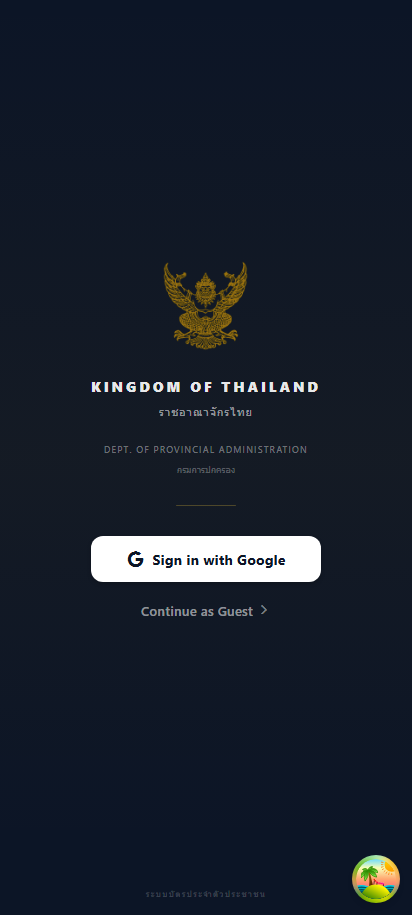
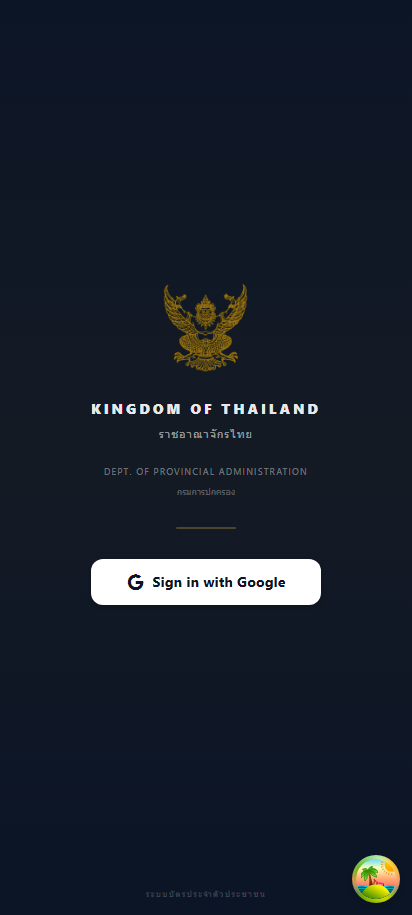
feat(auth): enforce strict Google Sign-In gate and condition loading splash to authenticated users only

Changed region(s): [[0.2039, 0.2754, 0.7864, 0.6732]]

diff --git a/app/_layout.tsx b/app/_layout.tsx
@@ -66,16 +66,14 @@ function AppShell() {
   const { colors, themeLoaded } = useTheme();
   const { ready: profileReady } = useProfile();
   const { countryLoaded, config } = useCountry();
-  const { isOnboarded, isAuthenticated, ready: authReady } = useAuth();
+  const { isAuthenticated, ready: authReady } = useAuth();
   const [fontsLoaded] = useFonts({ IBMPlexMono_500Medium });
   const [splashDone, setSplashDone] = useState(false);
   const [assetsReady, setAssetsReady] = useState(false);
   const timerRef = useRef<ReturnType<typeof setTimeout> | null>(null);
   const splashOpacity = useRef(new Animated.Value(1)).current;
   const [splashRemoved, setSplashRemoved] = useState(false);
-  const { width: winW, height: winH } = useWindowDimensions();
-
-  const isDesktop = Platform.OS === 'web' && winW > 500;
+  const { width: winW } = useWindowDimensions();
 
   const preloadAssets = useMemo(() => [
     config.cardImages.front,
@@ -86,26 +84,17 @@ function AppShell() {
   useEffect(() => {
     SystemUI.setBackgroundColorAsync('#0C1526').catch(() => {});
     if (Platform.OS === 'web' && typeof window !== 'undefined') {
-      // 1. Register Service Worker for PWA Offline Caching
       if ('serviceWorker' in navigator) {
         window.addEventListener('load', () => {
-          navigator.serviceWorker.register('/sw.js').then((reg) => {
-            console.log('[PWA] Service Worker registered with scope:', reg.scope);
-          }).catch((err) => {
-            console.log('[PWA] Service Worker registration failed:', err);
-          });
+          navigator.serviceWorker.register('/sw.js').catch(() => {});
         });
       }
-
-      // 2. Ensure PWA Manifest link tag is present
       if (!document.querySelector('link[rel="manifest"]')) {
         const link = document.createElement('link');
         link.rel = 'manifest';
         link.href = '/manifest.json';
         document.head.appendChild(link);
       }
-
-      // 3. Apple Touch Icon and Mobile Web App Meta Tags
       const metaTags = [
         { name: 'mobile-web-app-capable', content: 'yes' },
         { name: 'apple-mobile-web-app-capable', content: 'yes' },
@@ -128,45 +117,61 @@ function AppShell() {
     SystemUI.setBackgroundColorAsync(colors.bg).catch(() => {});
   }, [colors.bg]);
 
-  // Minimum splash duration with safety fallback
+  // If user is authenticated, run splash animation while loading assets
   useEffect(() => {
-    timerRef.current = setTimeout(() => setSplashDone(true), SPLASH_MIN_MS);
-    const safetyTimer = setTimeout(() => {
-      setSplashDone(true);
-      setAssetsReady(true);
-    }, 1000);
-    return () => {
-      if (timerRef.current) clearTimeout(timerRef.current);
-      clearTimeout(safetyTimer);
-    };
-  }, []);
+    if (isAuthenticated) {
+      timerRef.current = setTimeout(() => setSplashDone(true), SPLASH_MIN_MS);
+      const safetyTimer = setTimeout(() => {
+        setSplashDone(true);
+        setAssetsReady(true);
+      }, 1200);
+      return () => {
+        if (timerRef.current) clearTimeout(timerRef.current);
+        clearTimeout(safetyTimer);
+      };
+    }
+  }, [isAuthenticated]);
 
-  // Pre-load card images so they render instantly when content mounts
   useEffect(() => {
-    Asset.loadAsync(preloadAssets)
-      .then(() => setAssetsReady(true))
-      .catch(() => setAssetsReady(true));
-  }, [preloadAssets]);
+    if (isAuthenticated) {
+      Asset.loadAsync(preloadAssets)
+        .then(() => setAssetsReady(true))
+        .catch(() => setAssetsReady(true));
+    }
+  }, [isAuthenticated, preloadAssets]);
 
-  const ready = (themeLoaded && countryLoaded) || splashDone;
+  const appReady = (themeLoaded && countryLoaded && bioReady && fontsLoaded && assetsReady && profileReady) || splashDone;
 
-  // Cross-fade: splash fades out to reveal content underneath
   useEffect(() => {
-    if (ready && !splashRemoved) {
+    if (isAuthenticated && appReady && !splashRemoved) {
       Animated.timing(splashOpacity, {
         toValue: 0,
         duration: 350,
         useNativeDriver: Platform.OS !== 'web',
       }).start(() => setSplashRemoved(true));
     }
-  }, [ready, splashRemoved]);
+  }, [isAuthenticated, appReady, splashRemoved]);
 
+  // 1. Initial auth check loading
+  if (!authReady) {
+    return <View style={{ flex: 1, backgroundColor: colors.navy }} />;
+  }
+
+  // 2. Unauthenticated: Strict Google Sign-In gatekeeper
+  if (!isAuthenticated) {
+    return (
+      <View style={{ flex: 1, backgroundColor: colors.navy }}>
+        <StatusBar style="light" backgroundColor={colors.navy} />
+        <OnboardingAuthScreen />
+      </View>
+    );
+  }
+
+  // 3. Authenticated: App content with splash transition & biometric lock
   return (
     <View style={{ flex: 1, backgroundColor: themeLoaded ? colors.bg : '#0C1526' }}>
-      {ready && (
-        !isOnboarded && !isAuthenticated ? (
-          <OnboardingAuthScreen />
-        ) : !authenticated ? (
+      {appReady && (
+        !authenticated ? (
           <LockScreen />
         ) : (
           <>

diff --git a/src/context/AuthContext.tsx b/src/context/AuthContext.tsx
@@ -1,12 +1,9 @@
 import React, { createContext, useContext, useEffect, useState, ReactNode } from 'react';
 import { Platform } from 'react-native';
-import AsyncStorage from '@react-native-async-storage/async-storage';
 import * as Linking from 'expo-linking';
 import { User, Session } from '@supabase/supabase-js';
 import { supabase } from '../services/supabaseClient';
 import { reportError } from '../utils/reportError';
-
-const ONBOARDING_KEY = 'onboarding_completed_v1';
 
 interface AuthContextType {
   user: User | null;
@@ -14,11 +11,8 @@ interface AuthContextType {
   loading: boolean;
   ready: boolean;
   isAuthenticated: boolean;
-  isOnboarded: boolean;
   signInWithGoogle: () => Promise<void>;
   signOut: () => Promise<void>;
-  completeOnboarding: () => Promise<void>;
-  resetOnboarding: () => Promise<void>;
 }
 
 const AuthContext = createContext<AuthContextType>({
@@ -27,11 +21,8 @@ const AuthContext = createContext<AuthContextType>({
   loading: true,
   ready: false,
   isAuthenticated: false,
-  isOnboarded: false,
   signInWithGoogle: async () => {},
   signOut: async () => {},
-  completeOnboarding: async () => {},
-  resetOnboarding: async () => {},
 });
 
 export function AuthProvider({ children }: { children: ReactNode }) {
@@ -39,20 +30,13 @@ export function AuthProvider({ children }: { children: ReactNode }) {
   const [session, setSession] = useState<Session | null>(null);
   const [loading, setLoading] = useState(false);
   const [ready, setReady] = useState(false);
-  const [isOnboarded, setIsOnboarded] = useState(false);
 
   useEffect(() => {
     let mounted = true;
 
     async function initAuth() {
       try {
-        // 1. Check onboarding state from local storage first (instant)
-        const storedOnboarded = await AsyncStorage.getItem(ONBOARDING_KEY);
-        if (mounted && storedOnboarded === 'true') {
-          setIsOnboarded(true);
-        }
-
-        // 2. Timeout-protected session retrieval (never block app startup if offline)
+        // Fast timeout-protected session check
         const sessionPromise = supabase.auth.getSession();
         const timeoutPromise = new Promise<any>((resolve) =>
           setTimeout(() => resolve({ data: { session: null }, error: null }), 400)
@@ -67,9 +51,6 @@ export function AuthProvider({ children }: { children: ReactNode }) {
           const currentSession = data?.session ?? null;
           setSession(currentSession);
           setUser(currentSession?.user ?? null);
-          if (currentSession?.user || storedOnboarded === 'true') {
-            setIsOnboarded(true);
-          }
         }
       } catch (e) {
         reportError('AuthContext.initAuth', e);
@@ -82,15 +63,11 @@ export function AuthProvider({ children }: { children: ReactNode }) {
 
     initAuth();
 
-    // 3. Listen for auth state changes (OAuth redirect, sign-in, token refresh, sign-out)
-    const { data: { subscription } } = supabase.auth.onAuthStateChange(async (_event, session) => {
+    // Listen for auth state changes (OAuth redirect, sign-in, token refresh, sign-out)
+    const { data: { subscription } } = supabase.auth.onAuthStateChange((_event, session) => {
       if (!mounted) return;
       setSession(session);
       setUser(session?.user ?? null);
-      if (session?.user) {
-        setIsOnboarded(true);
-        await AsyncStorage.setItem(ONBOARDING_KEY, 'true').catch(() => {});
-      }
       setLoading(false);
       setReady(true);
     });
@@ -136,24 +113,6 @@ export function AuthProvider({ children }: { children: ReactNode }) {
     }
   };
 
-  const completeOnboarding = async () => {
-    try {
-      setIsOnboarded(true);
-      await AsyncStorage.setItem(ONBOARDING_KEY, 'true');
-    } catch (e) {
-      reportError('AuthContext.completeOnboarding', e);
-    }
-  };
-
-  const resetOnboarding = async () => {
-    try {
-      setIsOnboarded(false);
-      await AsyncStorage.removeItem(ONBOARDING_KEY);
-    } catch (e) {
-      reportError('AuthContext.resetOnboarding', e);
-    }
-  };
-
   const signOut = async () => {
     try {
       setLoading(true);
@@ -163,7 +122,6 @@ export function AuthProvider({ children }: { children: ReactNode }) {
       }
       setUser(null);
       setSession(null);
-      await resetOnboarding();
     } catch (e: any) {
       reportError('AuthContext.signOut', e);
       throw e;
@@ -180,11 +138,8 @@ export function AuthProvider({ children }: { children: ReactNode }) {
         loading,
         ready,
         isAuthenticated: !!user,
-        isOnboarded,
         signInWithGoogle,
         signOut,
-        completeOnboarding,
-        resetOnboarding,
       }}
     >
       {children}

diff --git a/src/components/OnboardingAuthScreen.tsx b/src/components/OnboardingAuthScreen.tsx
@@ -18,7 +18,7 @@ import { useSnackbar } from '../context/SnackbarContext';
 import BackgroundAtmosphere from './BackgroundAtmosphere';
 
 export default function OnboardingAuthScreen() {
-  const { loading, signInWithGoogle, completeOnboarding } = useAuth();
+  const { loading, signInWithGoogle } = useAuth();
   const { colors } = useTheme();
   const { config } = useCountry();
   const { top, bottom } = useSafeAreaInsets();
@@ -33,14 +33,6 @@ export default function OnboardingAuthScreen() {
       await signInWithGoogle();
     } catch (err: any) {
       snackbar.show(err?.message || 'Google sign-in failed', 'error');
-    }
-  };
-
-  const handleGuestContinue = async () => {
-    try {
-      await completeOnboarding();
-    } catch (err: any) {
-      snackbar.show(err?.message || 'Failed to enter demo mode', 'error');
     }
   };
 
@@ -71,7 +63,7 @@ export default function OnboardingAuthScreen() {
         {/* ── Subtle Divider ── */}
         <View style={styles.divider} />
 
-        {/* ── Auth Actions ── */}
+        {/* ── Auth Actions (Strict Google Sign-In Only) ── */}
         <View style={styles.actionsBox}>
           <Pressable
             style={({ pressed }) => [
@@ -89,18 +81,6 @@ export default function OnboardingAuthScreen() {
                 <Text style={styles.googleBtnText}>Sign in with Google</Text>
               </>
             )}
-          </Pressable>
-
-          <Pressable
-            style={({ pressed }) => [
-              styles.guestBtn,
-              pressed && { opacity: 0.6 },
-            ]}
-            onPress={handleGuestContinue}
-            disabled={loading}
-          >
-            <Text style={styles.guestBtnText}>Continue as Guest</Text>
-            <Ionicons name="chevron-forward" size={14} color="rgba(255, 255, 255, 0.45)" />
           </Pressable>
         </View>
       </View>
@@ -169,7 +149,6 @@ const styles = StyleSheet.create({
   actionsBox: {
     width: '100%',
     maxWidth: 320,
-    gap: 12,
     alignItems: 'center',
   },
   googleBtn: {
@@ -191,19 +170,6 @@ const styles = StyleSheet.create({
     fontSize: 14,
     fontWeight: '700',
     letterSpacing: 0.2,
-  },
-  guestBtn: {
-    flexDirection: 'row',
-    alignItems: 'center',
-    gap: 4,
-    paddingVertical: 8,
-    paddingHorizontal: 16,
-  },
-  guestBtnText: {
-    color: 'rgba(255, 255, 255, 0.55)',
-    fontSize: 13,
-    fontWeight: '500',
-    letterSpacing: 0.3,
   },
   footer: {
     fontSize: 8,
